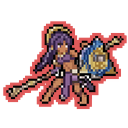
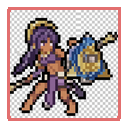
Replace knight sprite and add mage/archer raster art from tmp/
Process three new 1200×1200 source images: crop tight, scale to 128×128,
add per-team blue/red rim, save as unit_{a,b}.png. Wire mage and archer
into the IMG map in sprites.js (v1); bump knight to v7.

diff --git a/public/assets/sprites.js b/public/assets/sprites.js
@@ -213,8 +213,16 @@
   // See public/assets/units/README.md.
   const IMG = {
     knight: {
-      A: "/assets/units/knight_a.png?v=6",
-      B: "/assets/units/knight_b.png?v=6",
+      A: "/assets/units/knight_a.png?v=7",
+      B: "/assets/units/knight_b.png?v=7",
+    },
+    mage: {
+      A: "/assets/units/mage_a.png?v=1",
+      B: "/assets/units/mage_b.png?v=1",
+    },
+    archer: {
+      A: "/assets/units/archer_a.png?v=1",
+      B: "/assets/units/archer_b.png?v=1",
     },
   };
 

diff --git a/public/assets/units/README.md b/public/assets/units/README.md
@@ -45,3 +45,5 @@ map.
 ## Current assets
 
 - `knight_a.png`, `knight_b.png` — knight (重甲骑士), 128×128, blue/red rim.
+- `mage_a.png`, `mage_b.png` — mage (法师), 128×128, blue/red rim.
+- `archer_a.png`, `archer_b.png` — archer (弓手), 128×128, blue/red rim.
